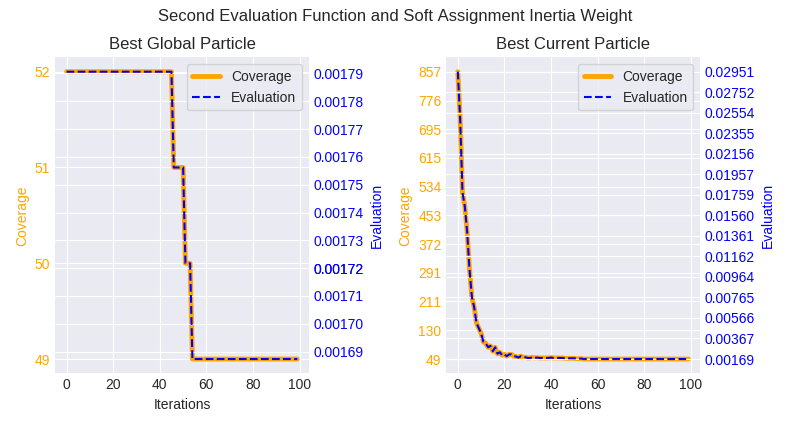
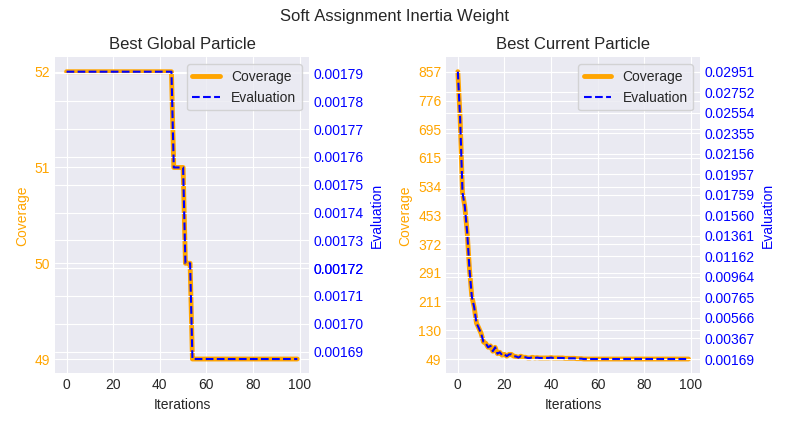
Updated again the plots

Changed region(s): [[0.1823, 0.0, 0.8203, 0.0591]]

diff --git a/plots/create_plots.py b/plots/create_plots.py
@@ -19,10 +19,10 @@ import matplotlib.ticker as ticker
 #log_name = "eval_particle_1_hard_best_run_log.txt"
 
 # eval_particle_2 and inertia assigment soft
-#log_name = "eval_particle_2_soft_best_run_log.txt"
+log_name = "eval_particle_2_soft_best_run_log.txt"
 
 # eval_particle_2 and inertia assigment hard
-log_name = "eval_particle_2_hard_best_run_log.txt"
+#log_name = "eval_particle_2_hard_best_run_log.txt"
 
 # test
 #log_name = 'test_best_run_log.txt'
@@ -57,13 +57,13 @@ def create_plot():
 
     title_plot = ''
     if 'eval_particle_1' in log_name and 'soft' in log_name:
-        title_plot = 'First Evaluation Function and Soft Assignment Inertia Weight'
+        title_plot = 'Soft Assignment Inertia Weight'  # 'First Evaluation Function and Soft Assignment Inertia Weight'
     elif 'eval_particle_1' in log_name and 'hard' in log_name:
-        title_plot = 'First Evaluation Function and Hard Assignment Inertia Weight'
+        title_plot = 'Hard Assignment Inertia Weight'  # 'First Evaluation Function and Hard Assignment Inertia Weight'
     elif 'eval_particle_2' in log_name and 'soft' in log_name:
-        title_plot = 'Second Evaluation Function and Soft Assignment Inertia Weight'
+        title_plot = 'Soft Assignment Inertia Weight'  # 'Second Evaluation Function and Soft Assignment Inertia Weight'
     elif 'eval_particle_2' in log_name and 'hard' in log_name:
-        title_plot = 'Second Evaluation Function and Hard Assignment Inertia Weight'
+        title_plot = 'Hard Assignment Inertia Weight'  # 'Second Evaluation Function and Hard Assignment Inertia Weight'
 
     with open(os.path.join(LOGS_PATH, log_name), "r") as fd:
         current_iteration = fd.readline().strip()
@@ -167,7 +167,7 @@ def create_plot():
     second_ax1.tick_params(axis='y', labelcolor='blue')
     second_ax1.set_xticks(np.arange(0, len(evaluation_values_global_best) + 1, step=len(evaluation_values_global_best) / 5))
 
-    step_yticks_second_ax1 = (np.max(evaluation_values_global_best) - np.min(evaluation_values_global_best)) / 12
+    step_yticks_second_ax1 = (np.max(evaluation_values_global_best) - np.min(evaluation_values_global_best)) / 11
     second_ax1.set_yticks(np.around(np.arange(np.min(evaluation_values_global_best), np.max(evaluation_values_global_best) + step_yticks_second_ax1,
                                               step=step_yticks_second_ax1), decimals=5))
 
@@ -199,7 +199,7 @@ def create_plot():
     second_ax2.lines[0].set_linestyle("--")
     second_ax2.set_ylabel('Evaluation', color='blue') #, rotation=270, labelpad=10)
     second_ax2.tick_params(axis='y', labelcolor='blue')
-    second_ax2.set_xticks(np.around(np.arange(0, len(evaluation_values_best_iteration) + 1, step=len(evaluation_values_best_iteration) / 12)))
+    second_ax2.set_xticks(np.around(np.arange(0, len(evaluation_values_best_iteration) + 1, step=len(evaluation_values_best_iteration) / 10)))
 
     step_yticks_second_ax2 = (np.max(evaluation_values_best_iteration) - np.min(evaluation_values_best_iteration)) / 15
     second_ax2.set_yticks(np.around(np.arange(np.min(evaluation_values_best_iteration), np.max(evaluation_values_best_iteration) + step_yticks_second_ax2, step=step_yticks_second_ax2), decimals=10))
